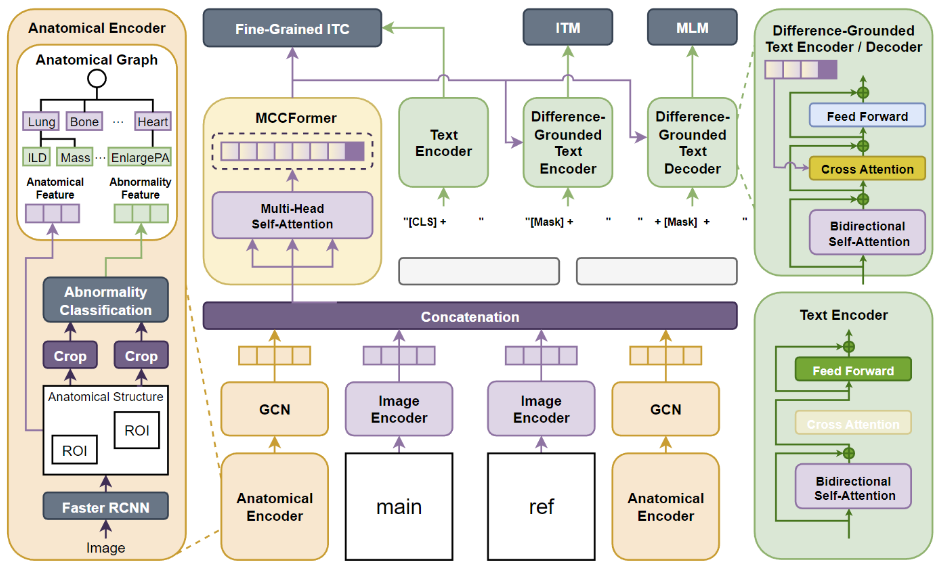
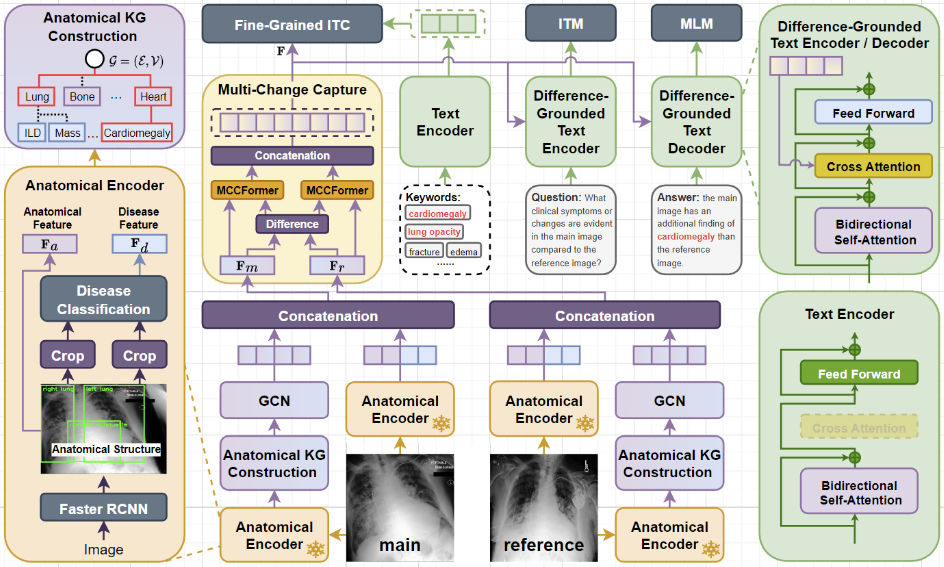
loss function update

diff --git a/model/utils/gloria_loss.py b/model/utils/gloria_loss.py
@@ -62,11 +62,10 @@ def attention_fn(query, context, temp1):
     return weightedContext, attn.view(batch_size, -1, sourceL)
 
 
-def global_loss(cnn_code, rnn_code, eps=1e-8, temp3=10.0):
+def global_loss(cnn_code, rnn_code, labels, eps=1e-8, temp3=10.0):
     # cnn_code  batch_size, cnn_len, dim
     # rnn_code  batch_size, rnn_len, dim
     batch_size = cnn_code.shape[0]
-    labels = Variable(torch.LongTensor(range(batch_size))).to(cnn_code.device)
 
     if cnn_code.dim() == 2:
         cnn_code = cnn_code.unsqueeze(0)
@@ -83,13 +82,13 @@ def global_loss(cnn_code, rnn_code, eps=1e-8, temp3=10.0):
     scores0 = scores0.squeeze()
 
     scores1 = scores0.transpose(0, 1)
-    loss0 = nn.CrossEntropyLoss()(scores0, labels)
-    loss1 = nn.CrossEntropyLoss()(scores1, labels)
+    loss0 = nn.BCEWithLogitsLoss()(scores0, labels)
+    loss1 = nn.BCEWithLogitsLoss()(scores1, labels.transpose(0, 1))
     return (loss0 + loss1) / 2
 
 
 def local_loss(
-    img_features, words_emb, cap_lens, temp1=4.0, temp2=5.0, temp3=10.0, agg="sum"
+    img_features, words_emb, cap_lens, labels, temp1=4.0, temp2=5.0, temp3=10.0, agg="sum"
 ):
 
     batch_size = img_features.shape[0]
@@ -135,8 +134,6 @@ def local_loss(
     similarities = similarities * temp3
     similarities1 = similarities.transpose(0, 1)  # [48, 48]
 
-    labels = Variable(torch.LongTensor(range(batch_size))).to(similarities.device)
-
-    loss0 = nn.CrossEntropyLoss()(similarities, labels)  # labels: arange(batch_size)
-    loss1 = nn.CrossEntropyLoss()(similarities1, labels)
+    loss0 = nn.BCEWithLogitsLoss()(similarities, labels)  # labels: arange(batch_size)
+    loss1 = nn.BCEWithLogitsLoss()(similarities1, labels.transpose(0, 1))
     return (loss0 + loss1) / 2

diff --git a/model/models/model_pretrain.py b/model/models/model_pretrain.py
@@ -164,11 +164,21 @@ class ChangeDetector(nn.Module):
         # question_cls = torch.argmax(question_choice, dim=-1).bool()
 
         # =================================ITC====================================
+        with torch.no_grad():
+            text_sim = torch.zeros(batch_size, batch_size).to(input_1.device)
+            keywords_token_ids = keywords_token.input_ids.clone()
+            for i in range(keywords_token_ids.size(0)):
+                for j in range(i, keywords_token_ids.size(0)):
+                    if keywords_token_ids[i].equal(keywords_token_ids[j]):
+                        text_sim[i, j] = 1
+            self.temp.clamp_(0.001,0.5)
+            gt_matrix = text_sim
+
         image_feat = self.contrastive_proj(question_embed.last_hidden_state[:, 0, :])
         keywords_len = keywords_token.attention_mask.sum(dim=1) - 2
         keywords_embeds = self.text_encoder.embeddings(keywords_token.input_ids)[:, 1:, :]
-        local_loss = gloria.local_loss(question_embed.last_hidden_state[:, 1:, :], keywords_embeds, keywords_len)
-        global_loss = gloria.global_loss(image_feat, torch.mean(keywords_embeds, dim=1))
+        local_loss = gloria.local_loss(question_embed.last_hidden_state[:, 1:, :], keywords_embeds, keywords_len, gt_matrix)
+        global_loss = gloria.global_loss(image_feat, torch.mean(keywords_embeds, dim=1), gt_matrix)
         loss_cl = local_loss + global_loss
 
         # ===============================ITM===================================

diff --git a/model/models/model_vqa.py b/model/models/model_vqa.py
@@ -164,6 +164,16 @@ class ChangeDetector(nn.Module):
         # question_cls = torch.argmax(question_choice, dim=-1).bool()
 
         # =================================ITC====================================
+        with torch.no_grad():
+            text_sim = torch.zeros(batch_size, batch_size).to(input_1.device)
+            keywords_token_ids = keywords_token.input_ids.clone()
+            for i in range(keywords_token_ids.size(0)):
+                for j in range(i, keywords_token_ids.size(0)):
+                    if keywords_token_ids[i].equal(keywords_token_ids[j]):
+                        text_sim[i, j] = 1
+            self.temp.clamp_(0.001,0.5)
+            gt_matrix = text_sim
+
         image_feat = self.contrastive_proj(question_embed.last_hidden_state[:, 0, :])
         keywords_len = keywords_token.attention_mask.sum(dim=1) - 2
         keywords_embeds = self.text_encoder.embeddings(keywords_token.input_ids)[:, 1:, :]

diff --git a/README.md b/README.md
@@ -1,5 +1,19 @@
 # Coarse-to-Fine-Grained-Contrastive-Learning
-Chest X-ray Differential Medical Visual Question Answering (Diff-MedVQA) is a novel multi-modal task designed to answer questions about diseases, especially their differences, based on a main image and a reference image. Compared to the widely explored visual question answering in the general domain, Diff-MedVQA presents two unique issues: (1) variations in medical images are often subtle, and (2) it is impossible for two chest X-rays taken at different times to be at exactly the same view. These issues significantly hinder the ability to answer questions about medical image differences accurately. To address this, we introduce a novel method named Coarse-to-Fine Granularity Contrastive Learning. Specifically, this method first leverages MCCFormer to extract global difference features between two chest X-rays, and utilizes the organ-disease scene graph method to extract fine-grained anatomical difference features within the X-rays, thus mitigating issues related to changes in imaging views. Subsequently, a cross-attention module is employed to capture question-related coarse-to-fine difference features, and contrastive learning is used to optimize the similarity between these features and the corresponding symptom/difference answer text features. Finally, the aligned difference features are used for decoding to generate answers. Our proposed method significantly outperforms the baseline MCCFormer on the public dataset MIMIC-CXR-Diff and achieves state-of-the-art performance.
+## Abstract
+Chest X-ray Differential Medical Visual Question Answering (Diff-MedVQA) is a novel multi-modal task designed to answer 
+questions about diseases, especially their differences, based on a main image and a reference image. Compared to the 
+widely explored visual question answering in the general domain, Diff-MedVQA presents two unique issues: 
+(1) variations in medical images are often subtle, and 
+(2) it is impossible for two chest X-rays taken at different times to be at exactly the same view. 
+These issues significantly hinder the ability to answer questions about medical image differences accurately. 
+To address this, we introduce a novel method named Coarse-to-Fine Granularity Contrastive Learning. Specifically, this 
+method first leverages MCCFormer to extract global difference features between two chest X-rays, and utilizes the 
+organ-disease scene graph method to extract fine-grained anatomical difference features within the X-rays, thus 
+mitigating issues related to changes in imaging views. Subsequently, a cross-attention module is employed to capture 
+question-related coarse-to-fine difference features, and contrastive learning is used to optimize the similarity between
+these features and the corresponding symptom/difference answer text features. Finally, the aligned difference features 
+are used for decoding to generate answers. Our proposed method significantly outperforms the baseline MCCFormer on the 
+public dataset MIMIC-CXR-Diff and achieves state-of-the-art performance.
 
 ![structure](structure.png)
 
